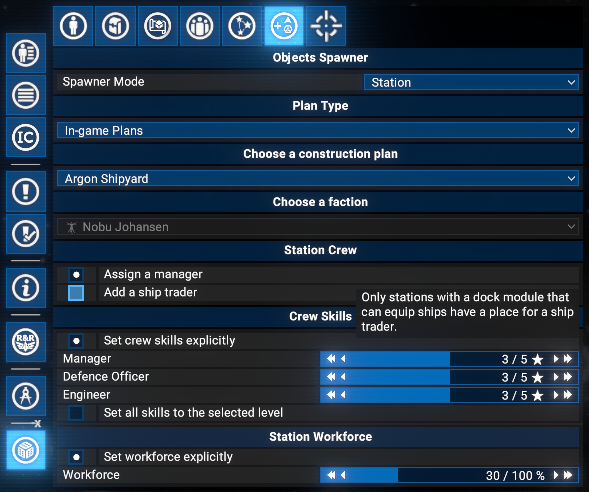
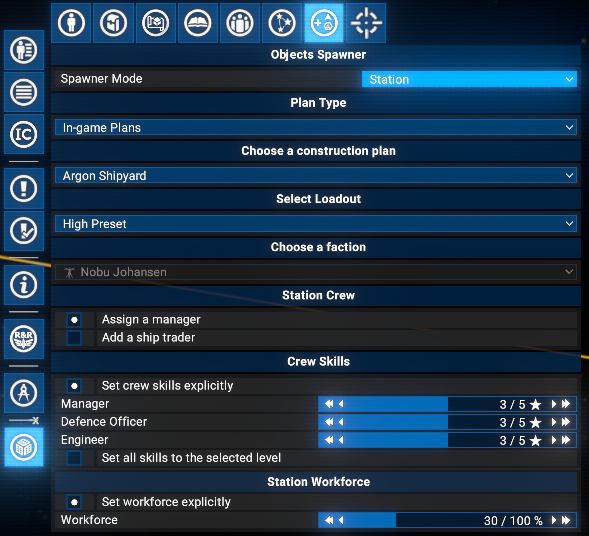
feat: loadout presets and station type for in-game plan stations
- Station Spawner: Select Loadout (Empty, Low, Medium, High Preset) for in-game plans
- Plan stations spawn as the station type the game gives them, so Xenon defence platforms and shipyards are no longer factories
- Two quick spawns or edits no longer mix up crew skills or workforce

diff --git a/README.md b/README.md
@@ -21,7 +21,7 @@ Take in account: id of the mod and folder is changed to `safe_cheat_panel`.
 - **Encyclopedia Tab**: Reveal encyclopedia entries for races, factions and their licences, ships, station modules, weapons, equipment and wares - individually, by subcategory, or all at once.
 - **Factions Tab**: Edit faction relations with the player and between non-player factions.
 - **Galaxy/Sectors Tab**: Reveal sectors on the map at three levels of detail, or reveal all at once.
-- **Spawner Tab**: Spawn stations - from a construction plan or as a pre-built installation - plus ships (loadout, crew skills, job assignment) and deployable objects. Player stations can be given a manager, a ship trader and a starting workforce - none of which the game assigns itself.
+- **Spawner Tab**: Spawn stations - from a construction plan, armed at a loadout preset, or as a pre-built installation - plus ships (loadout, crew skills, job assignment) and deployable objects. Player stations can be given a manager, a ship trader and a starting workforce - none of which the game assigns itself.
 - **Editor**: The same tab edits existing objects. Right-click a player-owned ship or station to load it in, then set crew skills, re-equip it, fill empty control posts or set its workforce.
 - **Destroy Object Tab**: Destroy any destructible map object, selected via the right-click context menu, with a confirmation checkbox before the button arms.
 - **Right-click context menu**: Spawn station, fix station, spawn ships, spawn objects, edit ship, edit station, force station build completion (current and all faction stations), restock station and station build storage (current and all faction stations), fill station storage (current and all faction stations), teleport the piloted ship or the station the player stands on, teleport player, reveal all stations in sector, clear the fog of war in sector, destroy object, make invincible.
@@ -161,6 +161,8 @@ A **Reveal All** button reveals every sector at all levels at once.
 #### Station Spawner
 
 - Select a construction plan - your own, or one of the game's pre-defined plans. In extended mode, pre-defined plans and installations are also listed with their id, so entries sharing a name stay apart.
+- For a pre-defined plan, choose its loadout: **Empty**, **Low**, **Medium** or **High Preset**, as in the station editor. Your own plans keep the loadout saved with them.
+- A pre-defined plan spawns as the station type the game gives it: a Xenon defence plan becomes a Xenon Defence Platform, a Xenon shipyard or wharf plan a Xenon shipyard, a trade station plan its race's trading station.
 - Or pick **Pre-built Installations** instead of a plan (available in extended mode) - Kha'ak installations, the fixed Xenon and pirate stations and the like, listed from the game itself.
 - An installation is real and armed, but does not join its owner's defence logic, so it will not breed fleets.
 - Select the owning faction (player only in normal mode; any faction in extended mode).
@@ -272,17 +274,20 @@ Debug logging can be enabled to write detailed information about the mod's opera
 
 ## Changelog
 
-### [8.00.45] - 2026-10-??
+### [8.00.45] - 2026-11-??
 
 - **Added**
   - Right-click **Make Invincible** for ships and stations, in the Spawner tab.
   - Player tab: **Invincible Ship** for the piloted ship and the spacesuit.
+  - Station Spawner: **Select Loadout** for pre-defined plans, from Empty to High Preset.
 - **Fixed**
   - Removing a research or revealing a sector while the map was closed left the map's info panel unable to refresh.
   - Right-click actions for **All Faction Stations** did nothing.
   - Right-click **Restock: All Faction Build Storages** and **Force Build Completion: All Faction Stations** skipped new construction sites.
   - Spawned laser towers waited for a captain and never fired.
   - Right-click **Restock** and **Fill Storage** left out the wares for station drones and for queued ship builds.
+  - Stations from pre-defined plans spawned unarmed and as factories, even Xenon defence platforms and shipyards.
+  - Two spawns or edits within half a second could give crew skills or workforce to the wrong object.
 
 ### [8.00.44] - 2026-10-04
 
